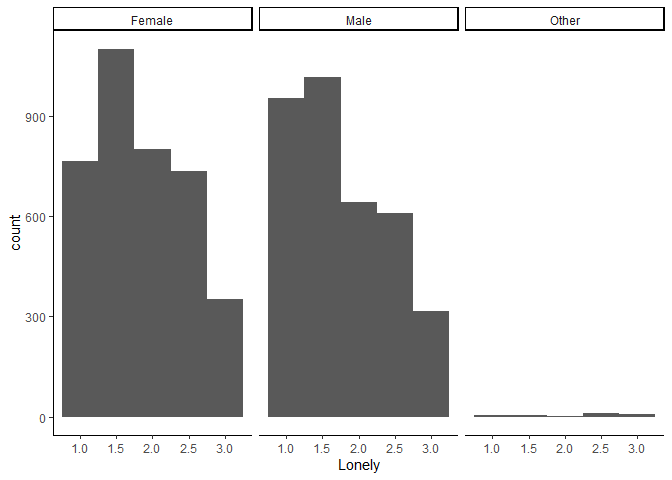
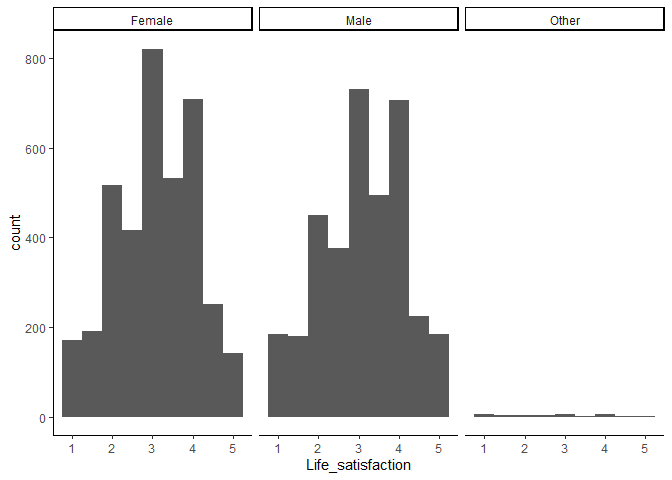
Lab6

diff --git a/Dataset-analysis.md b/Dataset-analysis.md
@@ -145,13 +145,13 @@ clean_data %>%
 Normality of Life satisfaction
 
 ``` r
-ggplot(clean_data, aes(x = Lonely)) + geom_histogram(binwidth = 0.5) + facet_wrap(~SEX)+theme_classic()
+ggplot(clean_data, aes(x = Life_satisfaction)) + geom_histogram(binwidth = 0.5) + facet_wrap(~SEX)+theme_classic()
 ```
 
 ![](Dataset-analysis_files/figure-gfm/unnamed-chunk-6-1.png)<!-- -->
 
 ``` r
-ggplot(clean_data, aes(x = Lonely)) + geom_histogram(binwidth = 0.5) + facet_wrap(~HOUSE_INCOME)+theme_classic()
+ggplot(clean_data, aes(x = Life_satisfaction)) + geom_histogram(binwidth = 0.5) + facet_wrap(~HOUSE_INCOME)+theme_classic()
 ```
 
 ![](Dataset-analysis_files/figure-gfm/unnamed-chunk-6-2.png)<!-- -->
